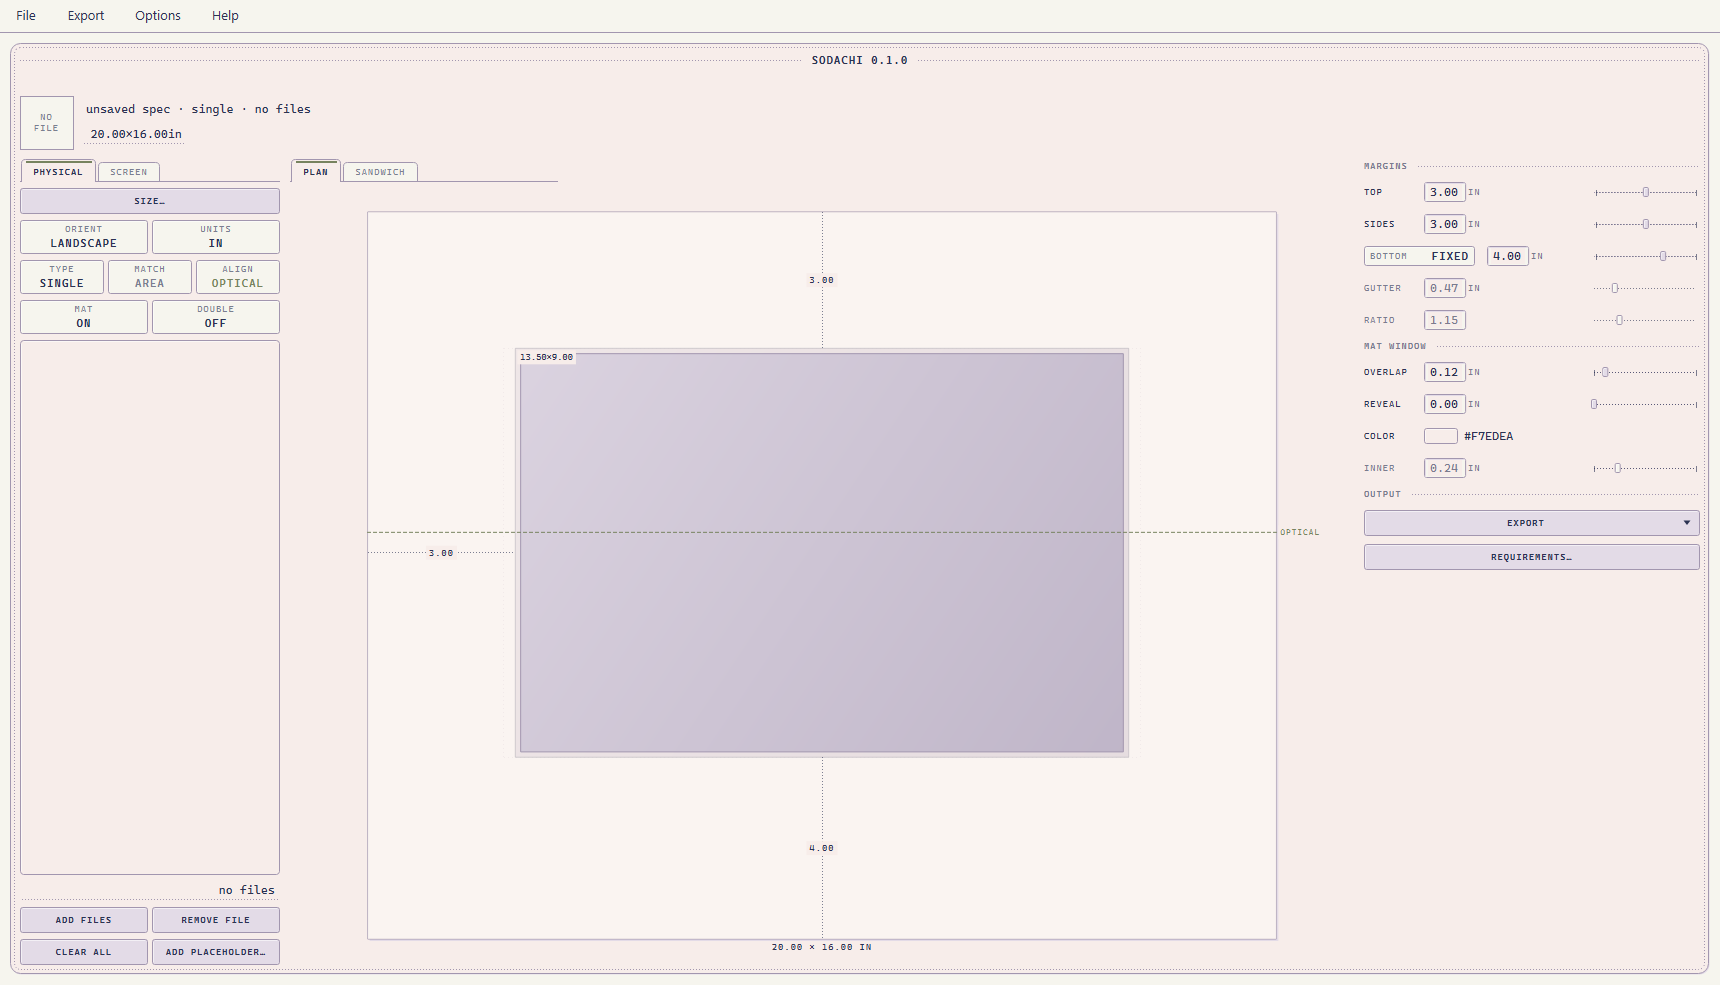
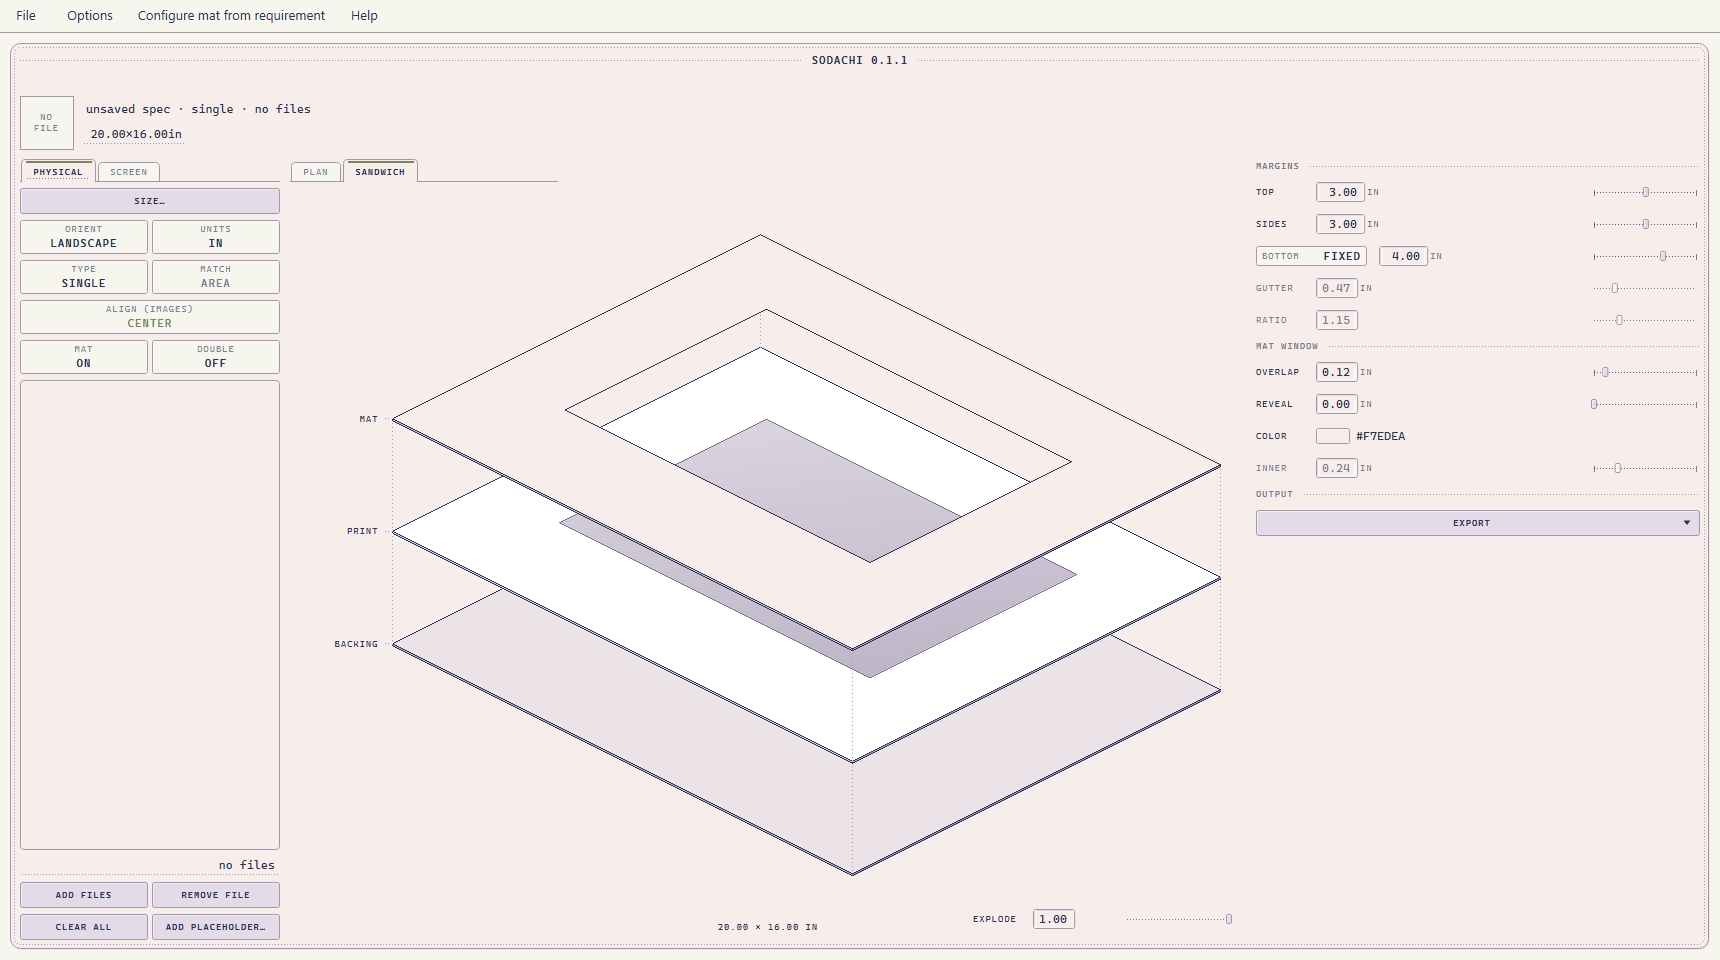
0.1.1: a readable README and a screenshot of the program as it is
The README is rewritten in plain sentences, a section per tab, with the
developer-facing detail moved out. Two claims it made were no longer true
and are corrected: bit depth and ICC profiles are not preserved by any
export the window can make (screen renders are 8-bit sRGB), and the app
does remember preferences between sessions — only the design is not
restored. Install now points at Releases and says the executable is
unsigned.

The screenshot showed controls since removed (the Export menu, the
Requirements button, the three-chip ALIGN row); it is replaced with the
Sandwich view, rendered window-only from this tree.

diff --git a/sodachi/__init__.py b/sodachi/__init__.py
@@ -9,6 +9,6 @@ renderer; points exist only inside the mat-guide renderer. See ``core/units``
 for the two conversion functions that are allowed to cross that line.
 """
 
-__version__ = "0.1.0"
+__version__ = "0.1.1"
 
 __all__ = ["__version__"]

diff --git a/README.md b/README.md
@@ -1,22 +1,19 @@
 # Sodachi
 
-Layout for images — film scans, digital work, any piece of art headed for a
-wall or a feed: borders, diptychs and triptychs, true-scale mat cutting
-guides, and cut paths for a computerised mat cutter. One window, nothing to
-type but numbers.
+Sodachi lays out images for framing and for posting. It designs mat boards
+for physical prints, and adds exact pixel borders to images for screens. It
+works with film scans, digital work, or any flat artwork.
 
-![The Sodachi window: the solved sheet previewed to scale.](docs/screenshot.png)
-
-**All geometry lives in millimetres; pixels exist only inside the raster
-renderer.** One solved layout drives every output, so the preview, the
-printed guide, the cutter file and the check table can never disagree.
+![The Sodachi window, showing a mat board, print and backing board as separated layers.](docs/screenshot.png)
 
 ## Install
 
-Windows: take the packaged build, put the folder anywhere, run
-`sodachi-gui.exe`. Nothing to install.
+**Windows:** download the zip from
+[Releases](https://github.com/Stillll-ph/Sodachi/releases), unzip it
+anywhere, and run `sodachi-gui.exe`. Nothing is installed. The executable is
+unsigned, so Windows may warn you the first time it runs.
 
-From source: Python 3.11+, then
+**From source:** requires Python 3.11 or later.
 
 ```bash
 pip install "pyvips[binary]"
@@ -24,69 +21,92 @@ pip install -e ".[gui]"
 sodachi-gui
 ```
 
-`packaging\build_exe.py` produces the relocatable one-folder build, and
-verifies it rather than trusting the exit code.
+To build the Windows executable yourself, run `packaging/build_exe.py`.
 
-## What it does
+## The Physical tab: mat boards
 
-**PHYSICAL** designs the mat. Type the paper size and margins, or work
-backwards from **Requirements** (the print you want, the frame you own).
-Placeholders let you design around a frame that hasn't been shot yet.
-Diptychs and triptychs get equal printed area per frame — `w = sqrt(a/a₀)`,
-the rule the icon draws — with optical centring and an optional reveal or
-double mat. The sandwich view shows the physical stack exploded.
+Set the paper size and margins, add your images, and Sodachi works out the
+layout. For a frame you haven't made yet, add a placeholder with its
+proportions instead.
 
-It exports board work only:
+A layout can hold one image or several — a diptych, triptych or grid. When
+there are several, each gets the same printed area by default, so a portrait
+beside a landscape reads as an equal. The mat can show a strip of paper
+inside the window (a reveal), or use a second board for a double mat. The
+Sandwich view shows the boards and print as separate layers.
 
-- **Mat guide** — a PDF at exact 100% scale, *mirrored*, because mats are cut
-  from the back. Print it with no scaling: the 100mm calibration bar on the
-  page is there to check your printer didn't shrink it. Corners carry
-  overcut marks sized to the board thickness.
-- **Cutter file** — DXF R12, SVG at true scale, or CSV. True geometry,
-  deliberately *not* mirrored: a machine orients the board itself, and a
-  mirrored path cuts a mirrored mat. Windows first, board outline last;
-  a double mat's top windows sit on their own layer.
-- **Check table** — every solved number in mm or inches, one COPY away from
-  your own print software. Sodachi never renders the print on this side:
-  people who print their artwork already have a printing workflow, and what
-  it can't invent is the geometry, so Sodachi hands it numbers.
+To start from the result instead — a print size you want, or a frame you
+already own — use **Configure mat from requirement** in the menu bar.
 
-**SCREEN** borders images for posting: one BORDER count (or per-side),
-exact pixel output, saved border recipes, and a BATCH chip that writes every
-queued file in one pass. Bit depth and ICC profiles are preserved where they
-matter and flattened to sRGB where they don't.
+Every export comes from the same solved layout, so the preview and the files
+always agree:
 
-Specs are plain YAML — savable, diffable, and they carry the frames the
-design was built around, so a mat plan reopens intact with no images on
-hand. Fifteen palettes; the window opens to the same neutral screen every
-launch.
+- **Mat guide.** A PDF to print and cut from by hand. It prints at exactly
+  100% and is mirrored, because mats are cut from the back. Turn off any
+  print scaling; a 100 mm bar on the page lets you check the size. Corner
+  marks show how far to overcut for your board's thickness.
+- **Cutter file.** DXF, SVG or CSV for a computerised mat cutter. It is not
+  mirrored: the machine handles orientation, and a mirrored file would cut a
+  mirrored mat. A double mat's top board is on its own layer.
+- **Check table.** Every measurement in millimetres or inches, ready to copy
+  into your own print software, including the smallest print each window can
+  hold.
 
-## Roads not taken
+Sodachi doesn't print your artwork. If you print your own work you likely
+have software for that already; the check table gives it the numbers.
 
-Tried, or designed far enough to see the problem — recorded so future work
-doesn't walk in fresh:
+## The Screen tab: borders for posting
 
-- Rendering the print on the physical side (removed — hand print workflows
-  numbers, not pixels; the renderer lives on SCREEN where pixels are the
-  product)
-- Batch and manifest pairing for mats (removed — a mat design is exported
-  once and cut forever; list order is the pairing)
-- Persistence outside the document (removed — the design lives in its spec
-  file; the app opens the same way every time)
-- Automatic export destinations (removed — the user picks where files go)
-- Duplicate menu surfaces (removed — one door per act)
-- Multi-frame Requirements and auto-correcting refusals (declined — the
-  forward path answers the first; visible refusal beats silent repair for
-  the second)
+Add images, set a border in pixels, and export. By default each image gets
+its own canvas, sized to fit the image plus its borders, so a 300 px border
+comes out at exactly 300 px and the image is never resized. To post into a
+fixed size instead, switch **Canvas** to **Fixed** and the image is scaled
+to fit.
+
+A border can be one value for all sides, or set separately for the top,
+sides and bottom. Files are written as PNG, JPG at maximum quality, or TIFF,
+in 8-bit sRGB. Turn on **Batch** to export every queued image at once into a
+folder you choose. Border settings you use often can be saved under
+**Layouts**.
+
+## Other features
+
+- Designs save as plain YAML spec files. A spec keeps the frames the layout
+  was built around, so a mat design reopens complete without the images.
+- **Options → Beginner controls** adds a one-line explanation beside every
+  control.
+- Fifteen colour palettes, under **Options → Palette**.
+
+## Tried and dropped
+
+Kept here so they aren't reinvented:
+
+- **Rendering the print on the Physical tab.** Print workflows need the
+  numbers, not another image file.
+- **Batch export and file pairing for mats.** A mat is designed once and cut
+  many times. The order of the file list is the pairing.
+- **Restoring the last design on launch.** A design belongs in its spec file,
+  and the app opens the same way every time.
+- **Sizing the screen canvas from the paper.** The image had to be resized to
+  fill it and the spare space landed unevenly, so a 300 px border never came
+  out at 300 px.
+- **Capping screen exports at 4096 px.** It shrank canvases that had been set
+  in exact pixels.
+- **Choosing export folders automatically.** You choose where files go.
+- **The same command in several places.** Each action lives in one place.
+- **Requirements for several frames at once, and quietly fixing impossible
+  settings.** The normal layout already covers the first; for the second, a
+  clear refusal beats a silent change.
 
 ## Tests
 
-Developed against a suite of 1,100+ tests — geometry proved exhaustively,
-outputs read back off disk, cut files parsed and checked against the solver —
-run in full before every packaged build. The suite is maintained alongside
-the source and is not part of the published tree.
+Sodachi is developed against more than 1,100 tests, run in full before every
+packaged build. They check the layout geometry, read exported files back from
+disk, and parse cutter files against the layout. The tests are not included in
+this repository.
 
 ## License
 
-See [LICENSE](LICENSE): run it for anything, personal or commercial; the
-source is published for reference; all other rights reserved.
+You may run Sodachi, unmodified, for any purpose, personal or commercial. The
+source is published for reference only; all other rights are reserved. See
+[LICENSE](LICENSE).
